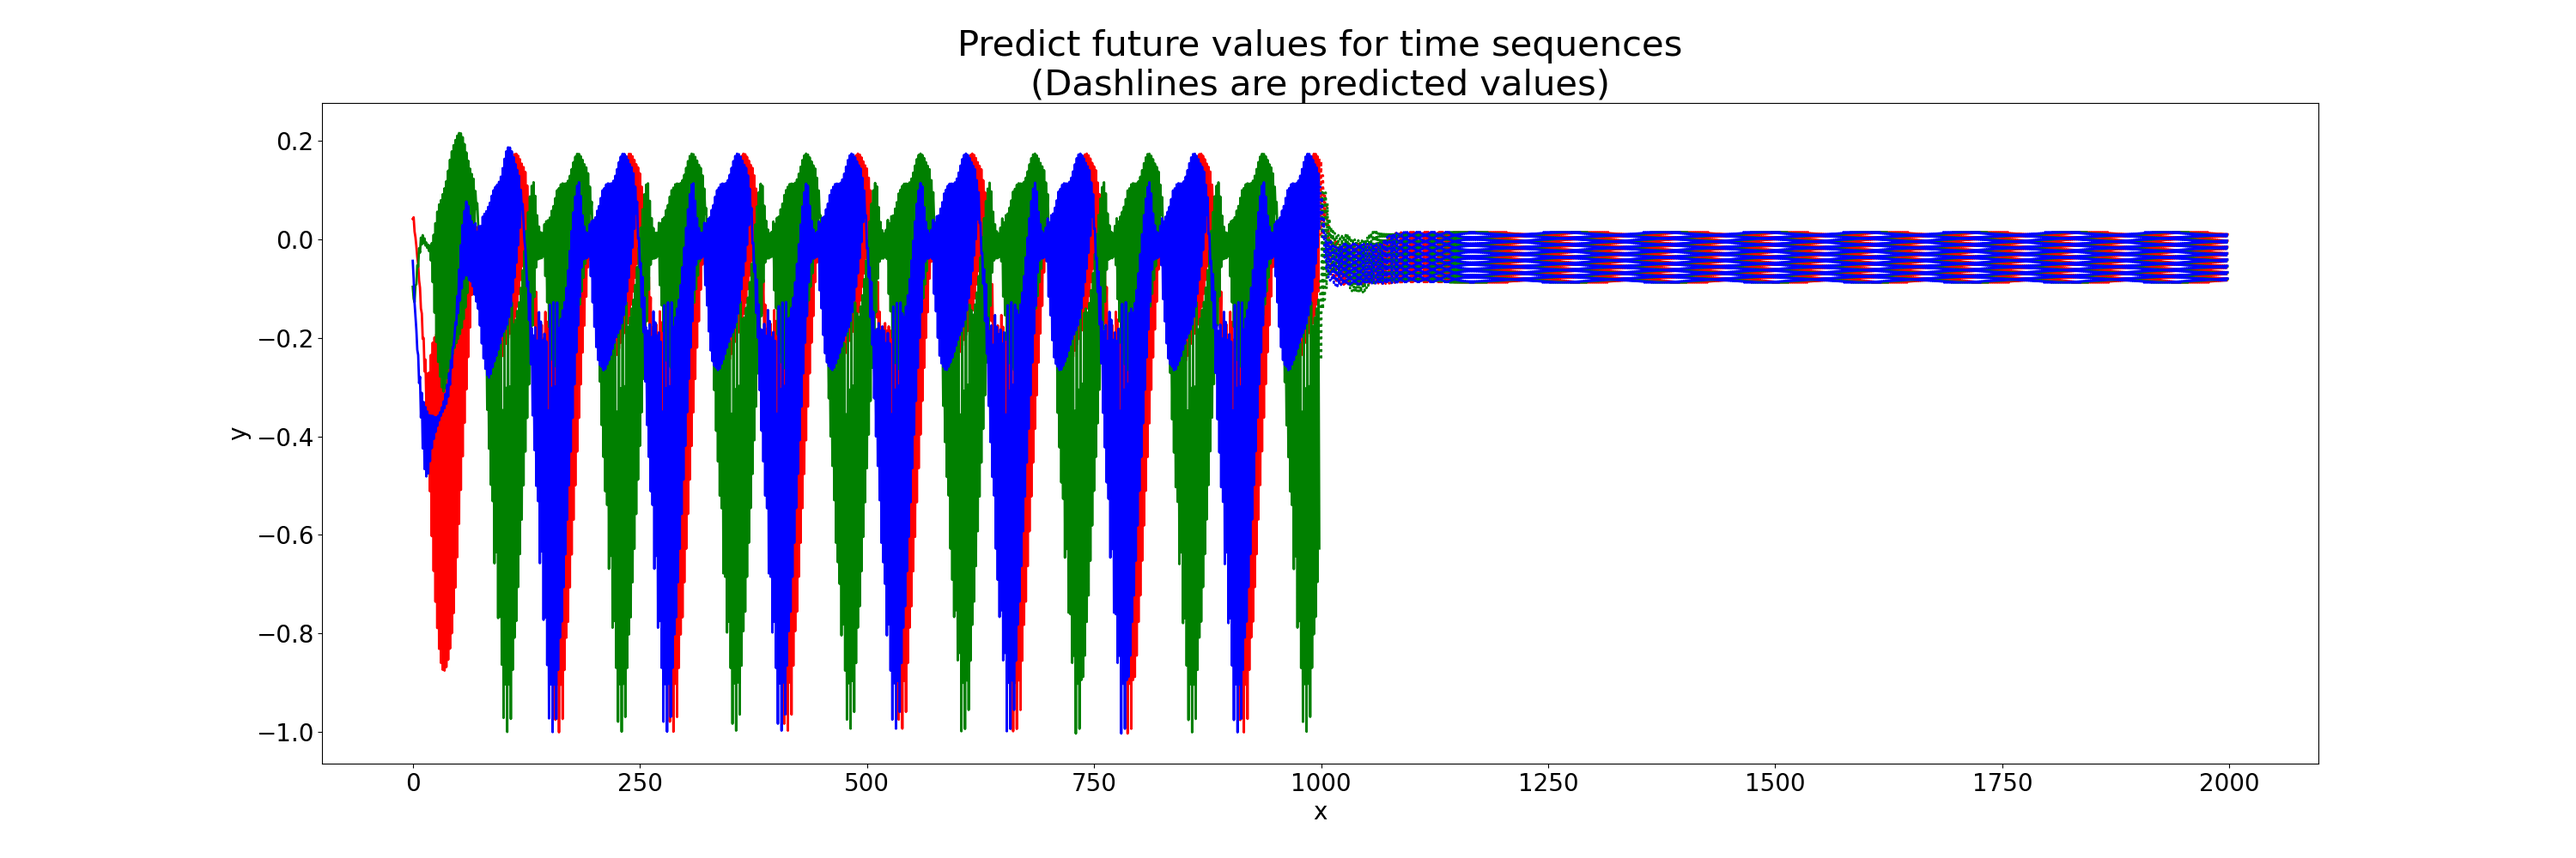
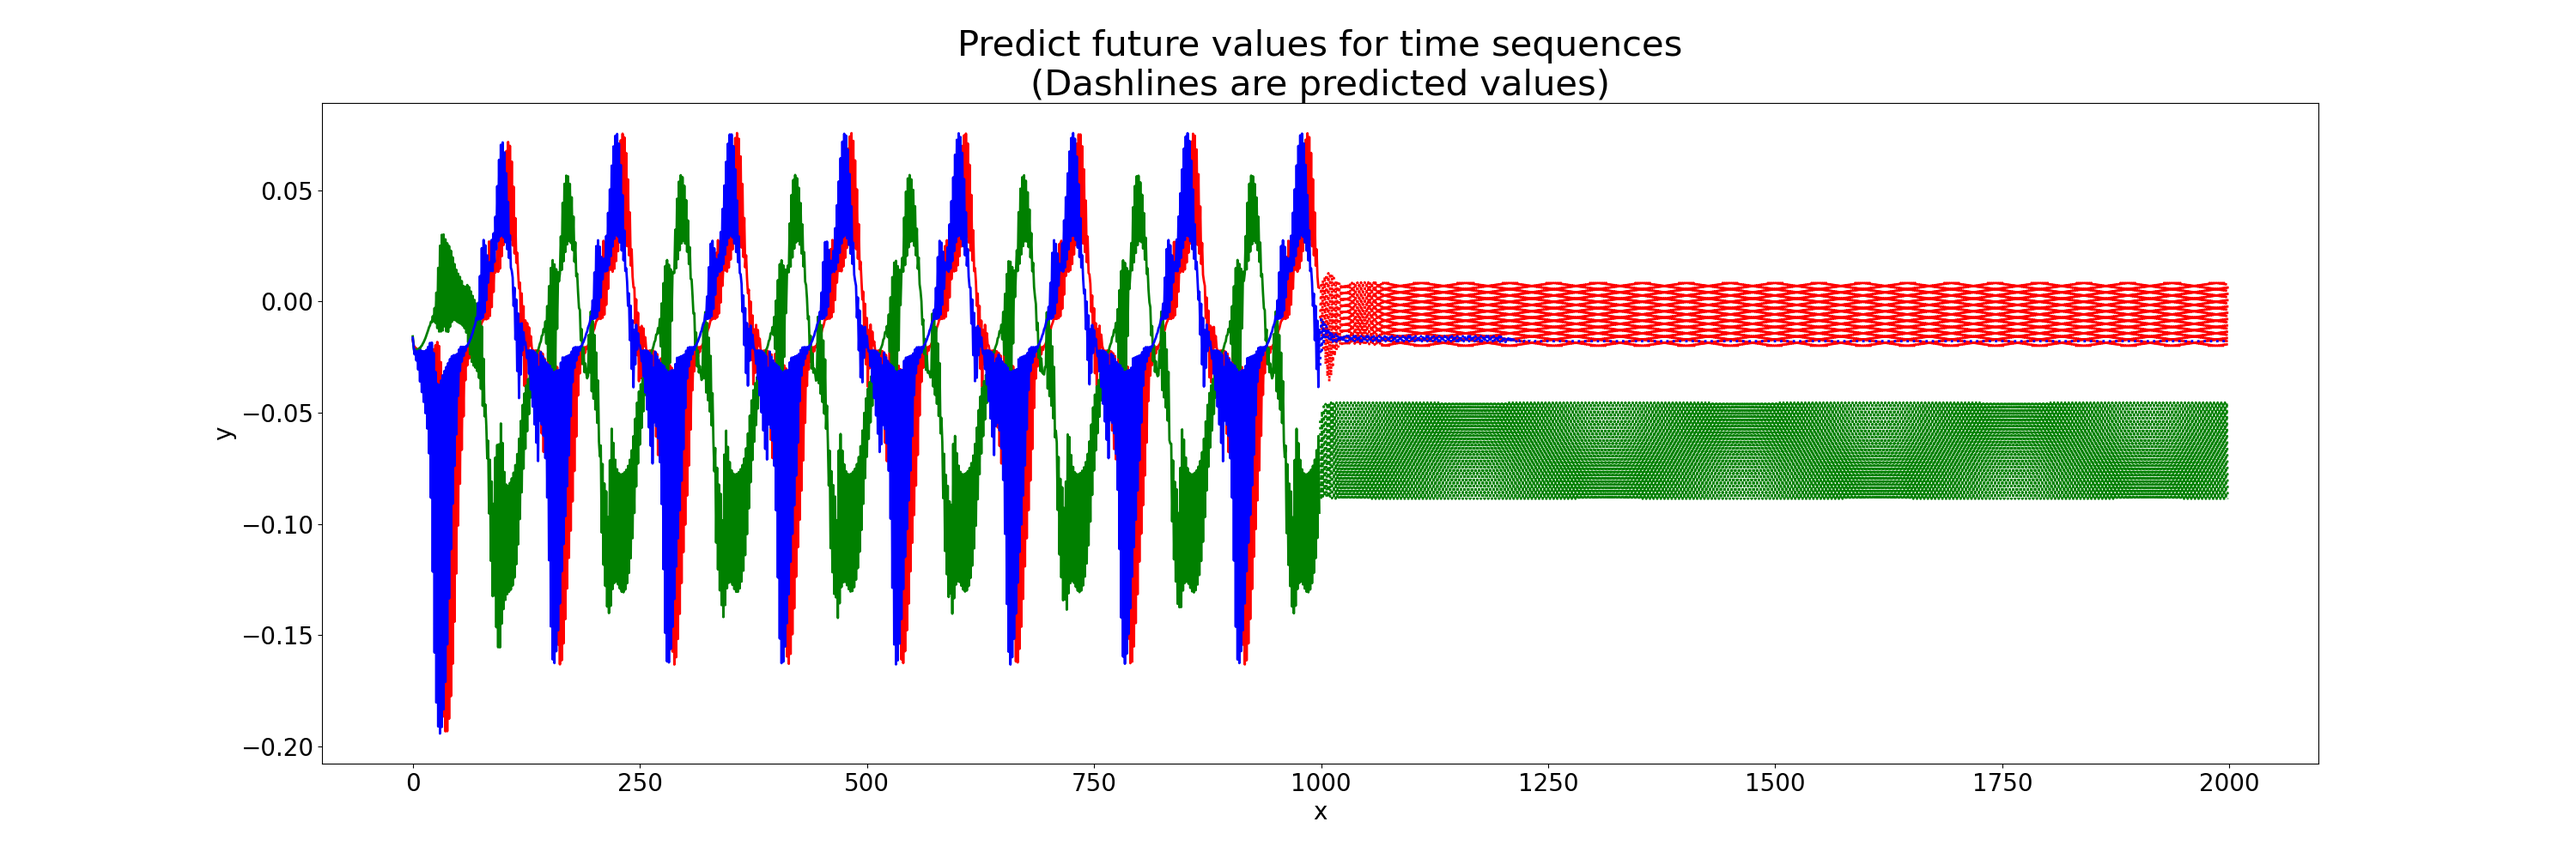
.

diff --git a/models/LSTMwithSin/LSTMTwoLayer.py b/models/LSTMwithSin/LSTMTwoLayer.py
@@ -130,33 +130,25 @@ if __name__ == '__main__':
             y = pred.detach().cpu().numpy()
 
 
-    # begin to predict, no need to track gradient here
-    with torch.no_grad():
-        future = 1000
-        pred = seq(test_input, future=future)
-        loss = criterion(pred[:, :-future], test_target)
-        testLossHistory.append(loss.item())
-        y = pred.detach().cpu().numpy()
+        # draw the result
+        plt.figure(figsize=(30, 10))
+        plt.title('Predict future values for time sequences\n(Dashlines are predicted values)', fontsize=30)
+        plt.xlabel('x', fontsize=20)
+        plt.ylabel('y', fontsize=20)
+        plt.xticks(fontsize=20)
+        plt.yticks(fontsize=20)
 
 
-    # draw the result
-    plt.figure(figsize=(30, 10))
-    plt.title('Predict future values for time sequences\n(Dashlines are predicted values)', fontsize=30)
-    plt.xlabel('x', fontsize=20)
-    plt.ylabel('y', fontsize=20)
-    plt.xticks(fontsize=20)
-    plt.yticks(fontsize=20)
+        def draw(yi, color):
+            plt.plot(np.arange(input.size(1)), yi[:input.size(1)], color, linewidth=2.0)
+            plt.plot(np.arange(input.size(1), input.size(1) + future), yi[input.size(1):], color + ':', linewidth=2.0)
 
 
-    def draw(yi, color):
-        plt.plot(np.arange(input.size(1)), yi[:input.size(1)], color, linewidth=2.0)
-        plt.plot(np.arange(input.size(1), input.size(1) + future), yi[input.size(1):], color + ':', linewidth=2.0)
-
-
-    draw(y[0], 'r')
-    draw(y[1], 'g')
-    draw(y[2], 'b')
-    plt.savefig('./images/predictedFinal' + name + '.png')
-    plt.close()
+        draw(y[0], 'r')
+        draw(y[1], 'g')
+        draw(y[2], 'b')
+        if i % 10 == 0:
+            plt.savefig('./images/predict%d.png' % i)
+        plt.close()
 
     print(trainLossHistory, testLossHistory)
